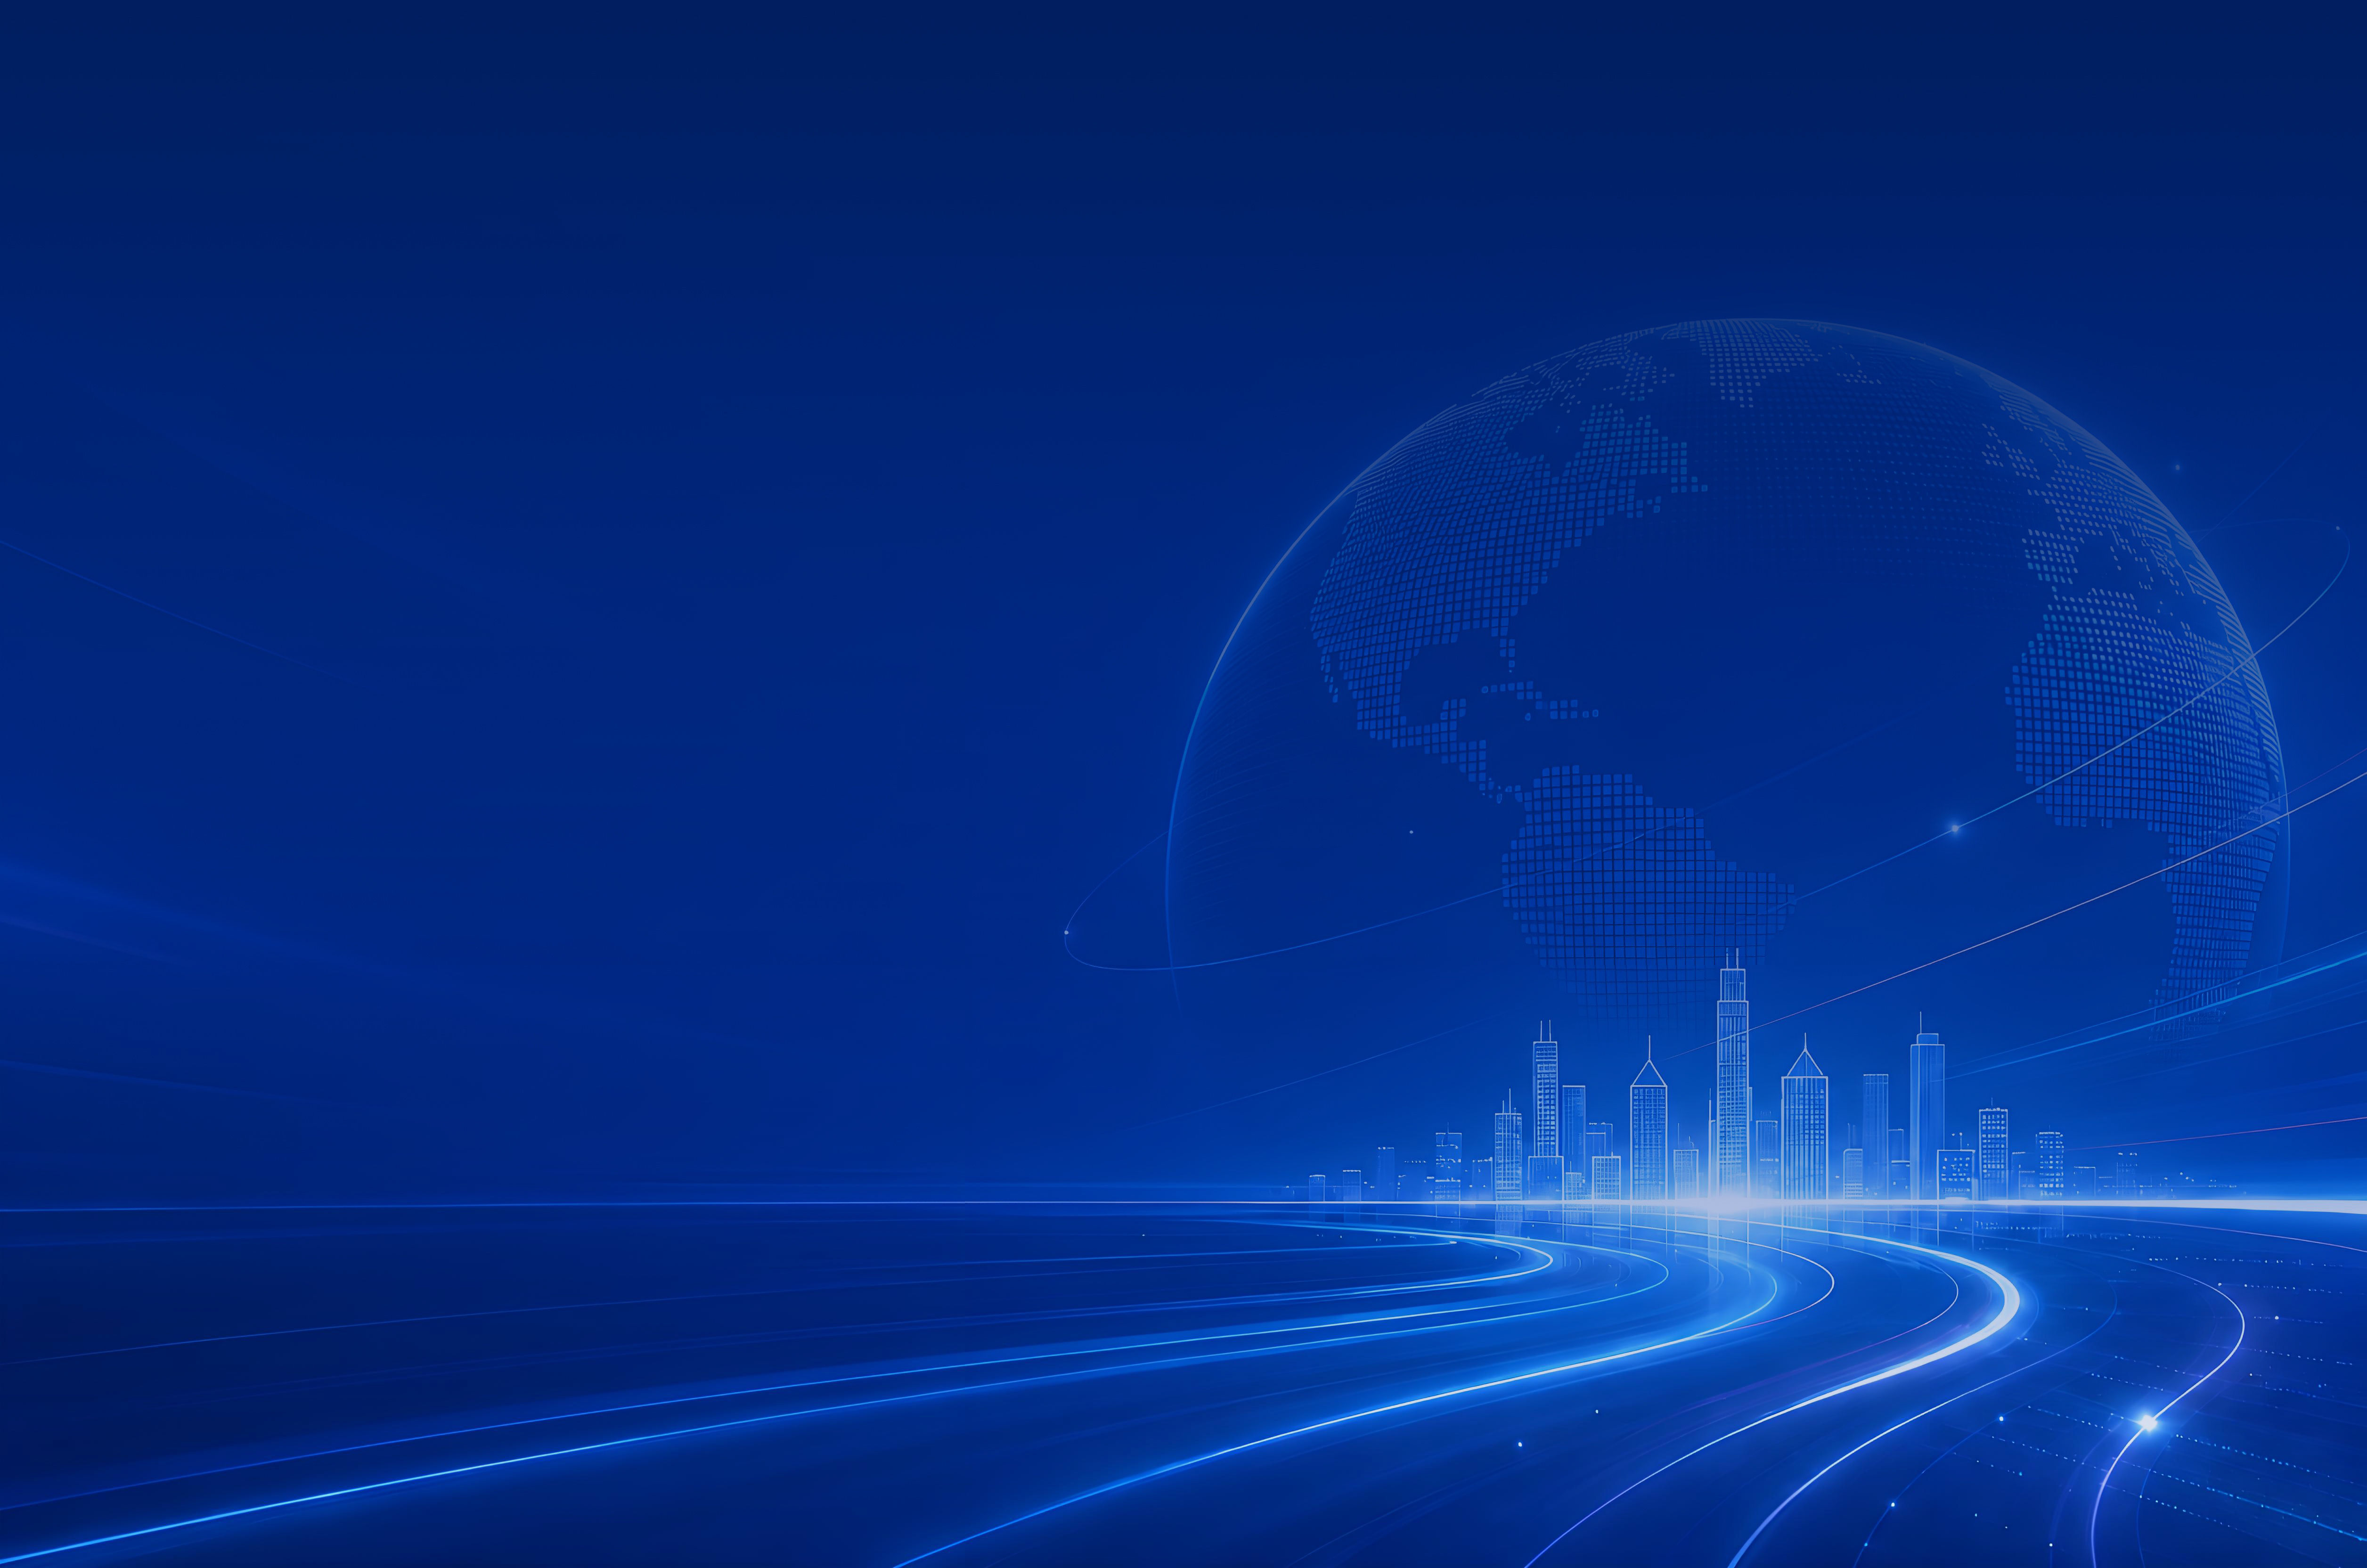
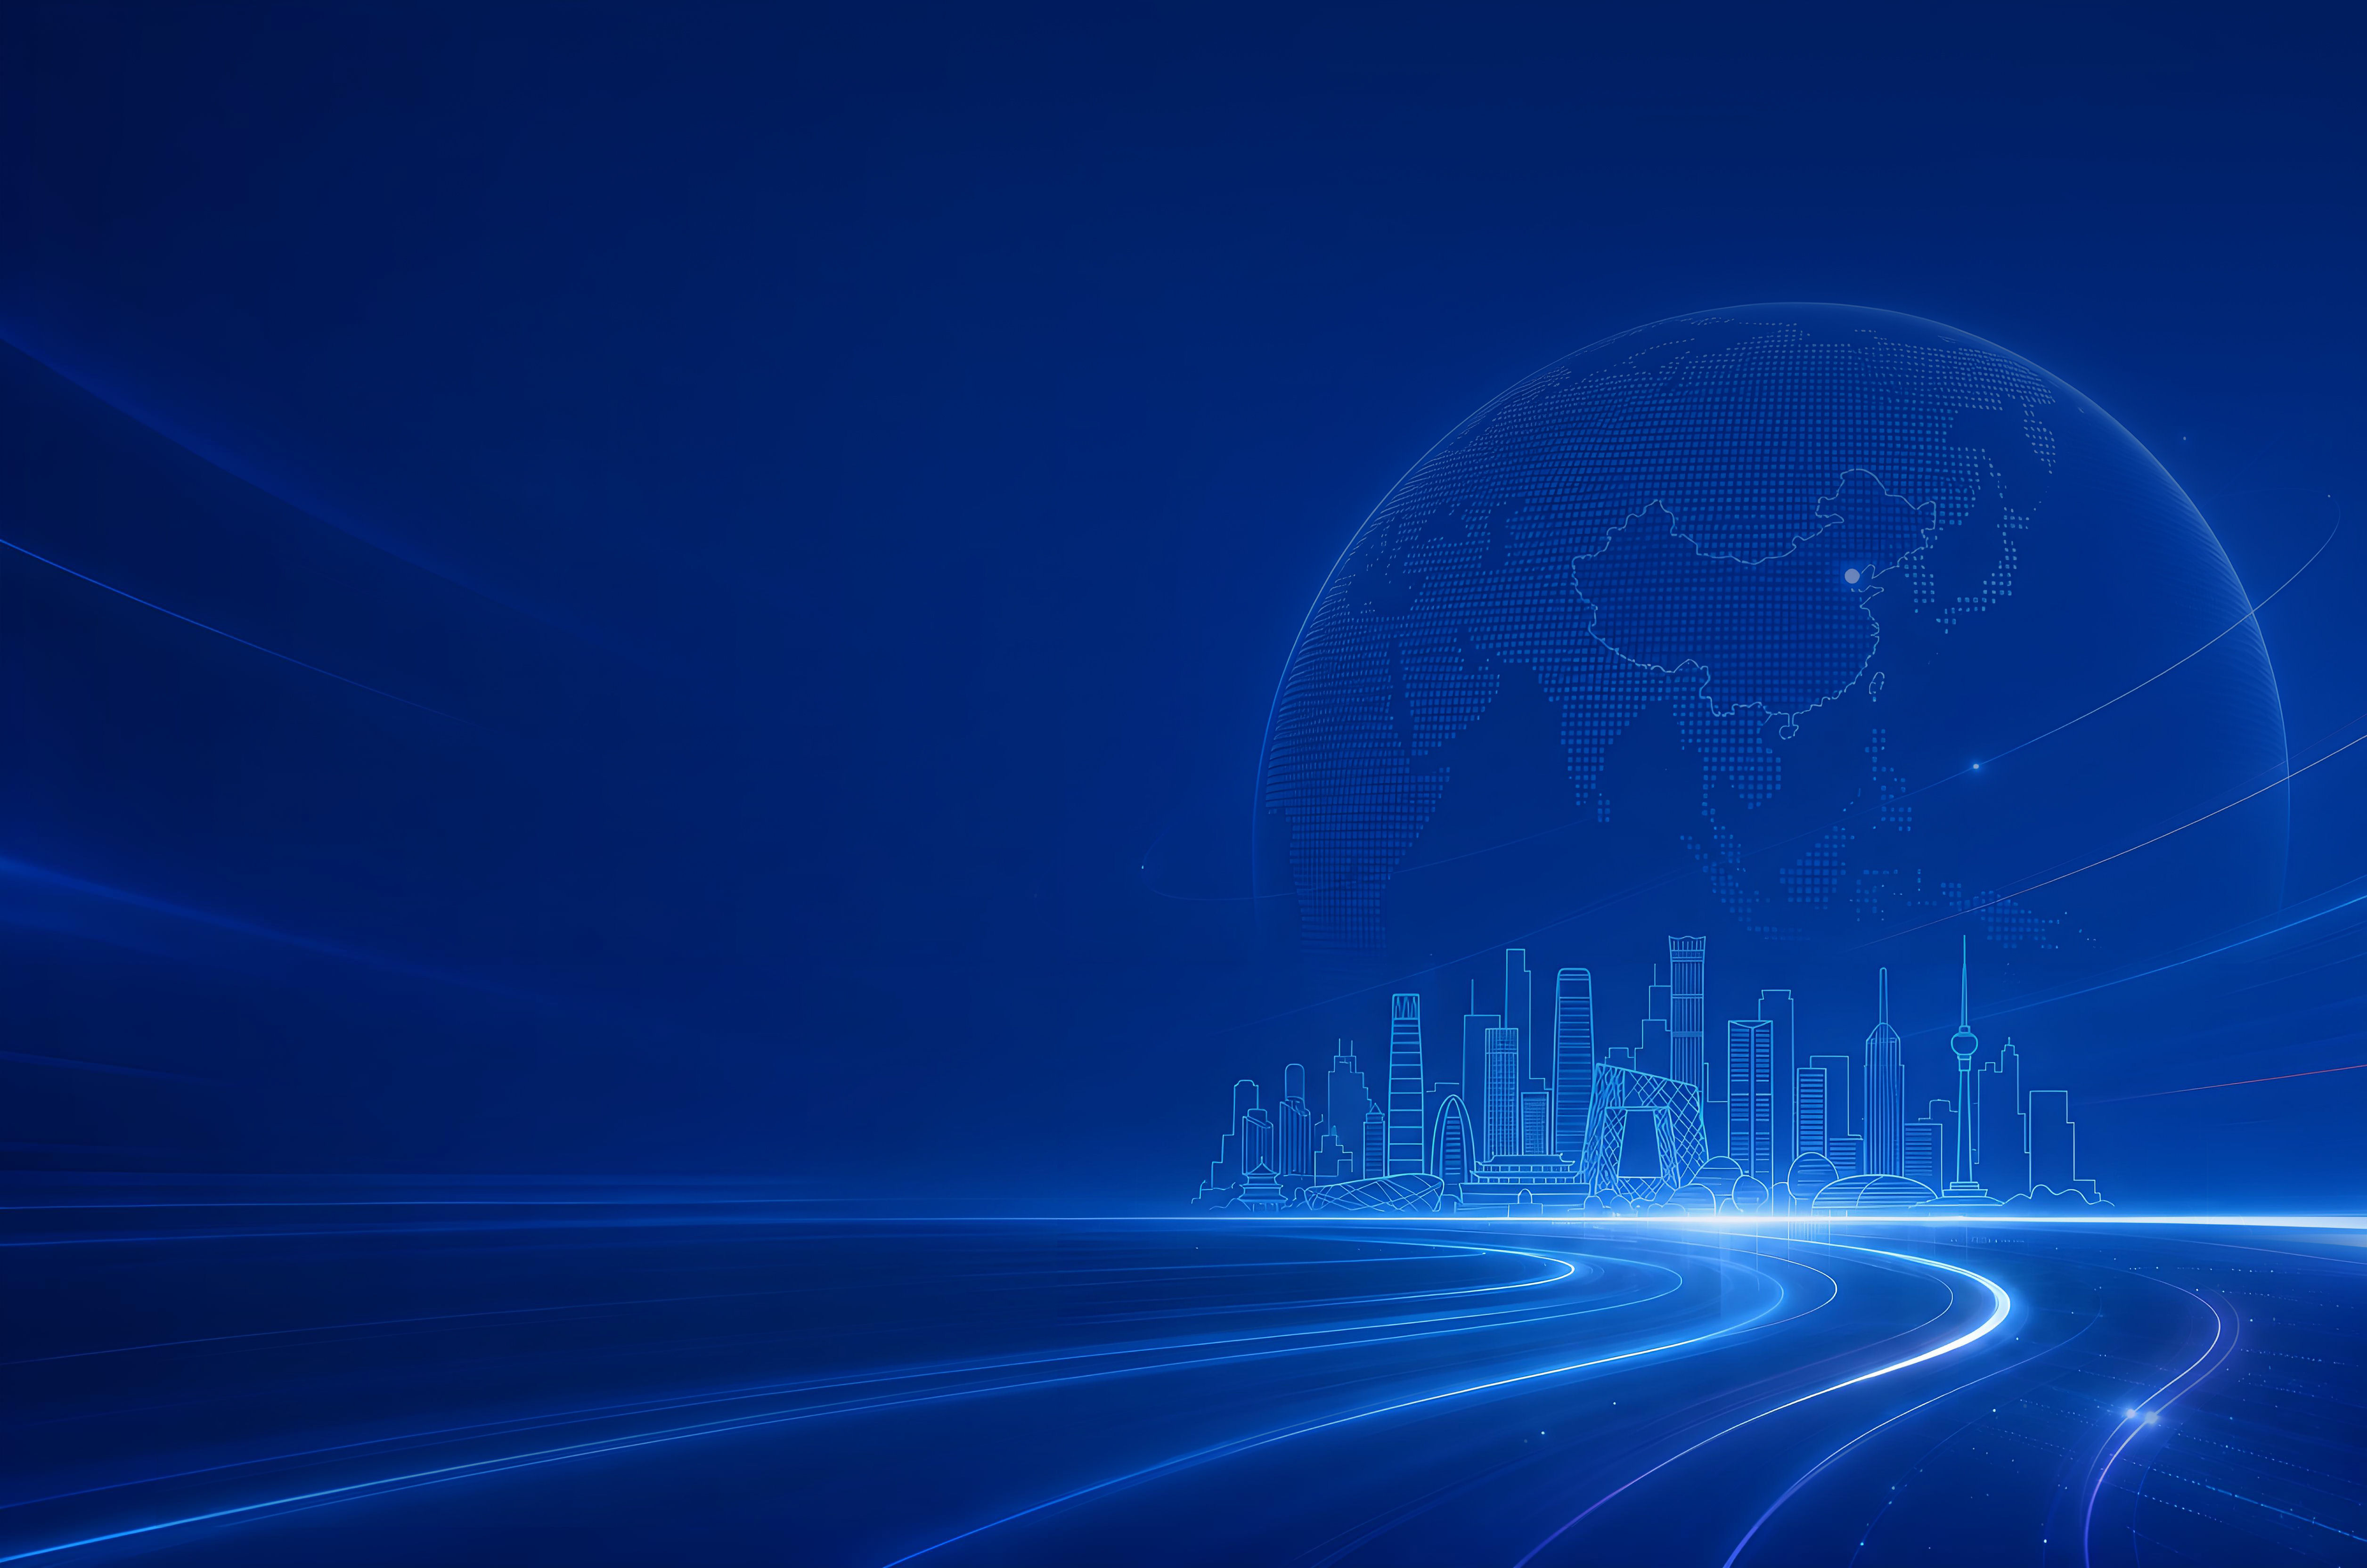
Home 背景图片修改

diff --git a/frontend/src/views/HomeView.vue b/frontend/src/views/HomeView.vue
@@ -38,7 +38,7 @@
 
           <div class="mt-8 flex flex-wrap gap-3 justify-center md:justify-start">
             <router-link to="/schedule" class="btn-orange">查看完整日程 <font-awesome-icon icon="circle-right" /></router-link>
-            <router-link to="/attendees" class="btn-secondary !bg-transparent !text-white !ring-white/40 hover:!ring-white hover:!bg-white/10">参会人员</router-link>
+            <router-link to="/attendees" class="btn-secondary !bg-[rgba(0,50,160,0.65)] !text-white !ring-white/40 hover:!ring-white hover:!bg-white/10">参会人员</router-link>
           </div>
         </div>
 
@@ -114,12 +114,31 @@
 
         <div class="relative">
           <div
-            class="aspect-[4/3] rounded-md hero-bg shadow-glow ring-1 ring-brand-deep/10 flex items-center justify-center p-10"
+            class="aspect-[4/3] rounded-md shadow-glow ring-1 ring-brand-deep/10 flex items-center justify-center p-10"
+            style="background: url('/save-date-bg.jpg') center/cover no-repeat"
           >
-            <div class="text-white text-center">
-              <div class="text-sm tracking-widest text-white/70 uppercase">Save the date</div>
-              <div class="text-5xl sm:text-7xl font-extrabold mt-3 tabular-nums">07.14</div>
-              <div class="text-sm text-white/70 mt-2">- 07.16 / 2026 / Beijing</div>
+            <div class="text-center w-full">
+              <!-- SAVE THE DATE with diamond decorators -->
+              <div class="flex items-center justify-center gap-3">
+                <span class="block w-12 h-px bg-[#c9a84c]/60"></span>
+                <span class="text-[#c9a84c] text-xs">◆</span>
+                <span class="text-sm tracking-[0.3em] text-[#c9a84c] uppercase font-medium">Save the Date</span>
+                <span class="text-[#c9a84c] text-xs">◆</span>
+                <span class="block w-12 h-px bg-[#c9a84c]/60"></span>
+              </div>
+              <!-- Big date with gold gradient -->
+              <div
+                class="text-5xl sm:text-7xl font-extrabold mt-4 tabular-nums"
+                style="background-image: linear-gradient(135deg, #e8d48b 0%, #c9a84c 40%, #a07c2a 100%); -webkit-background-clip: text; -webkit-text-fill-color: transparent; background-clip: text;"
+              >07.14 - 07.16</div>
+              <!-- Divider with diamond -->
+              <div class="flex items-center justify-center gap-2 mt-3">
+                <span class="block w-10 h-px bg-[#c9a84c]/60"></span>
+                <span class="text-[#c9a84c] text-[10px]">◆</span>
+                <span class="block w-10 h-px bg-[#c9a84c]/60"></span>
+              </div>
+              <!-- Sub text -->
+              <div class="text-sm text-[#c9a84c]/80 mt-2 tracking-wide">- 2026 / Beijing Yizhuang -</div>
             </div>
           </div>
         </div>